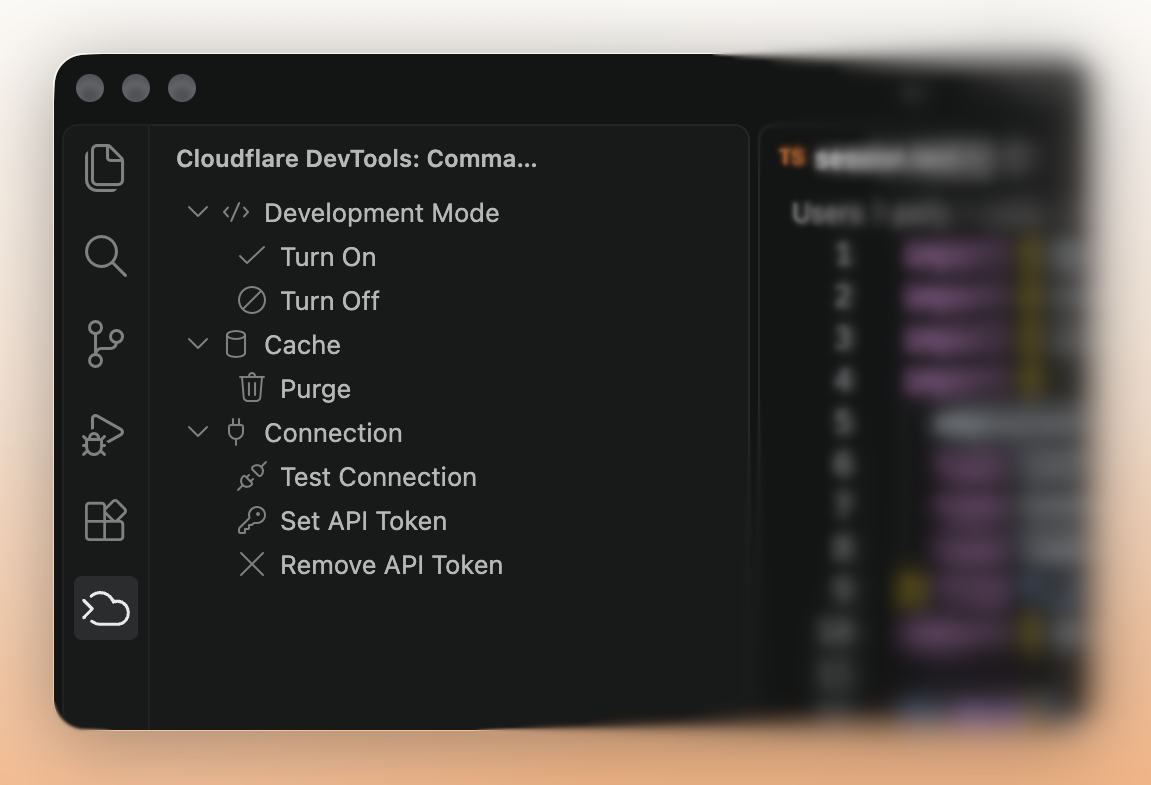
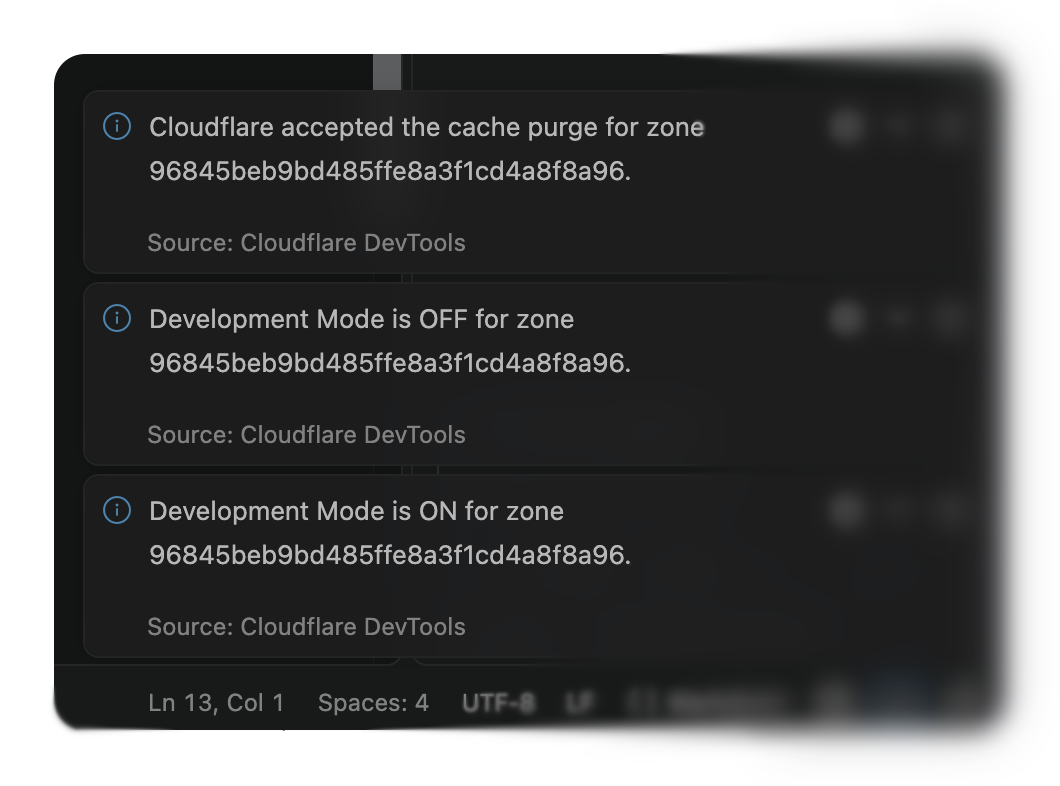
Use transparent action confirmations as the README lead image

diff --git a/README.md b/README.md
@@ -10,7 +10,7 @@ A [Visual Studio Code extension](https://marketplace.visualstudio.com/items?item
 - Store a scoped API token in VS Code's encrypted secret storage.
 - Test the connection without changing Cloudflare settings or purging content.
 
-![Development Mode, cache and connection commands in VS Code](assets/commands.png)
+![VS Code confirmations for Development Mode on, off, and cache purge](assets/commands.png)
 
 ## Getting started
 
